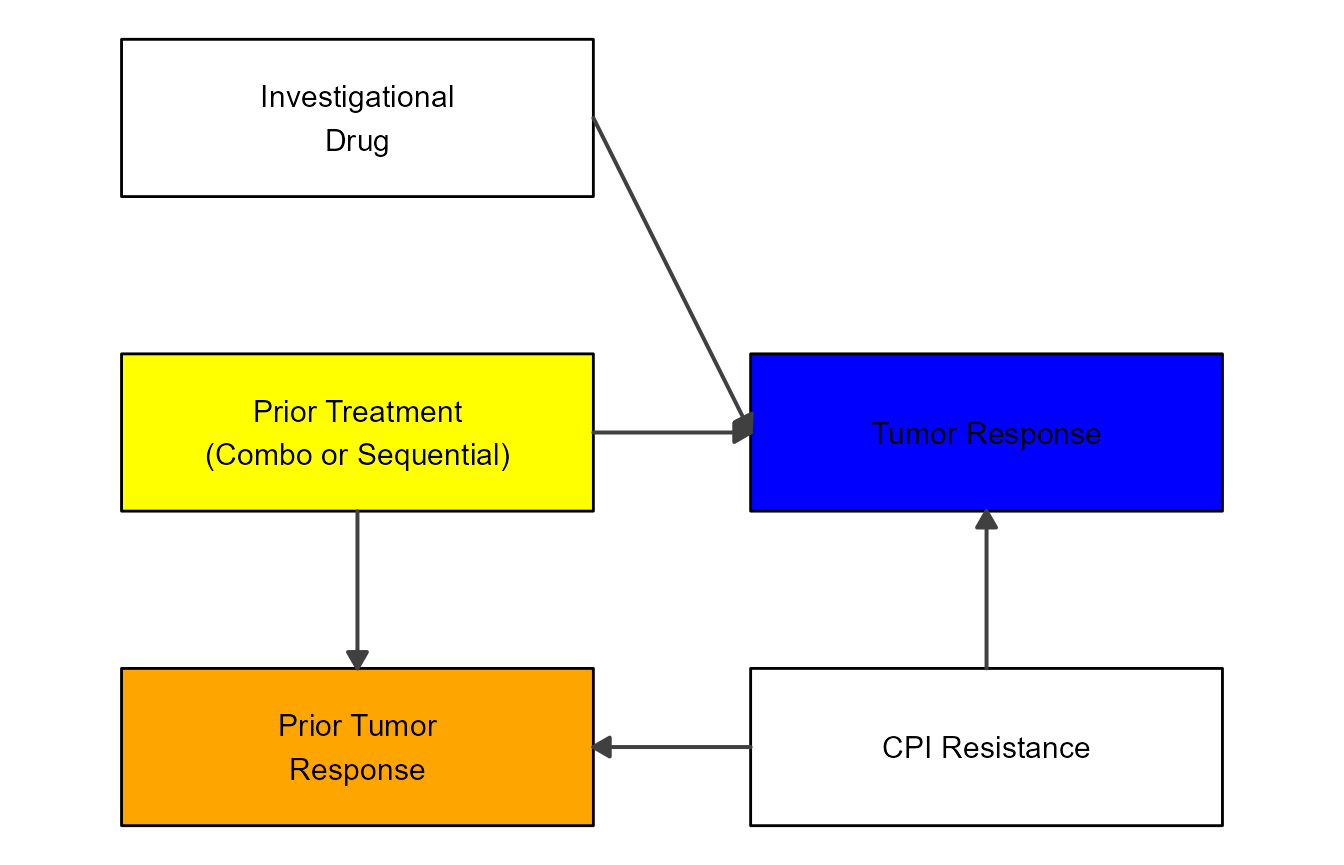
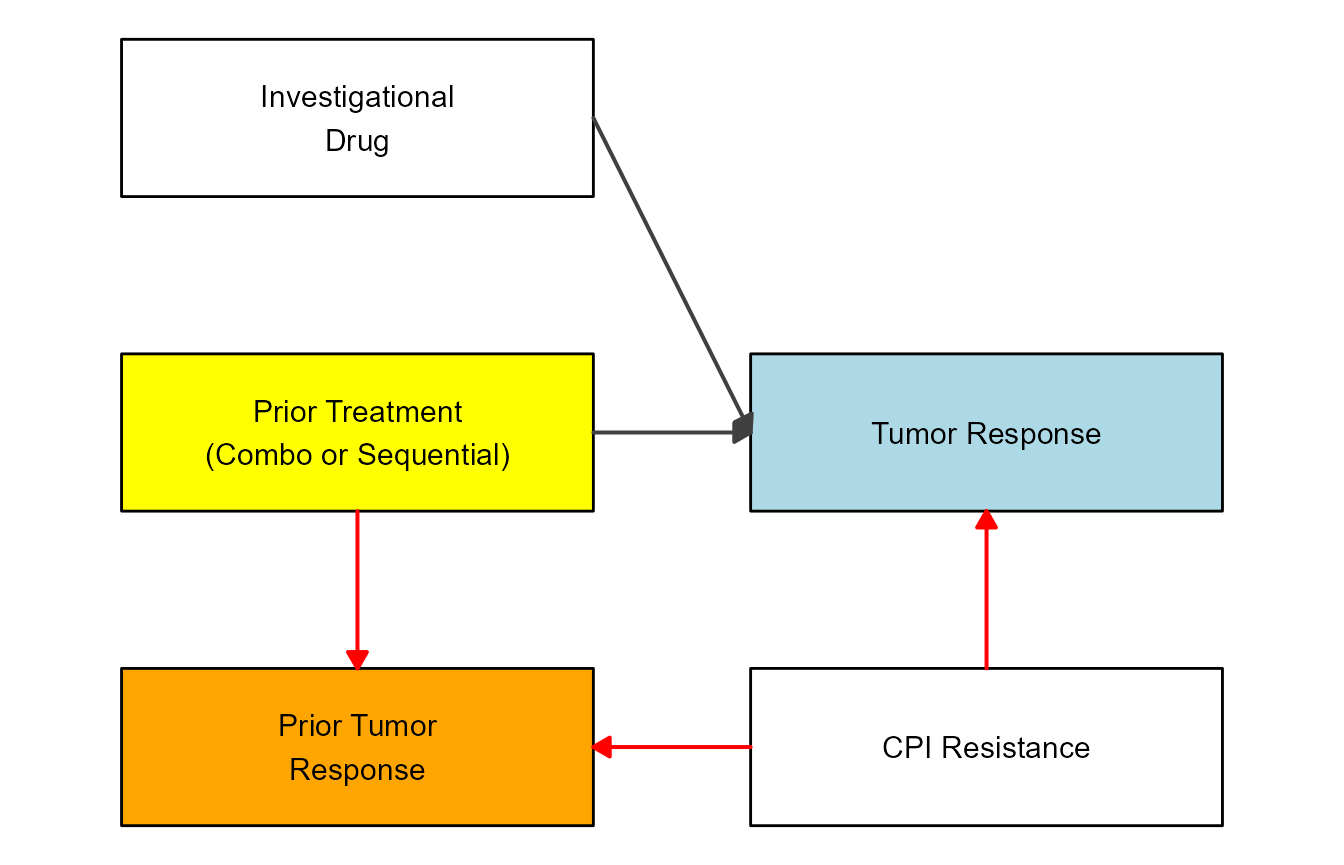
few more edits

Changed region(s): [[0.5625, 0.4058, 0.9062, 0.7491], [0.25, 0.5931, 0.2812, 0.7803], [0.4375, 0.8428, 0.5625, 0.874]]

diff --git a/docs/articles/E_non_model_diagrams.html b/docs/articles/E_non_model_diagrams.html
@@ -271,7 +271,7 @@ Next, we prepare the diagram, then plot it.</p>
                                 <span class="st">"PT"</span>, <span class="st">"TR"</span>,
                                <span class="st">"PTR"</span>, <span class="st">"CPI"</span><span class="op">)</span>,
                                ncol <span class="op">=</span> <span class="fl">2</span>, byrow <span class="op">=</span> <span class="cn">TRUE</span><span class="op">)</span>  
-<span class="va">varcolors</span> <span class="op">=</span> <span class="fu"><a href="https://rdrr.io/r/base/c.html" class="external-link">c</a></span><span class="op">(</span><span class="st">"ID"</span> <span class="op">=</span> <span class="st">"white"</span>,<span class="st">"PT"</span><span class="op">=</span><span class="st">"yellow"</span>,<span class="st">"TR"</span><span class="op">=</span><span class="st">"blue"</span>,<span class="st">"PTR"</span><span class="op">=</span><span class="st">"orange"</span>,<span class="st">"CPI"</span><span class="op">=</span><span class="st">"white"</span><span class="op">)</span>
+<span class="va">varcolors</span> <span class="op">=</span> <span class="fu"><a href="https://rdrr.io/r/base/c.html" class="external-link">c</a></span><span class="op">(</span><span class="st">"ID"</span> <span class="op">=</span> <span class="st">"white"</span>,<span class="st">"PT"</span><span class="op">=</span><span class="st">"yellow"</span>,<span class="st">"TR"</span><span class="op">=</span><span class="st">"lightblue"</span>,<span class="st">"PTR"</span><span class="op">=</span><span class="st">"orange"</span>,<span class="st">"CPI"</span><span class="op">=</span><span class="st">"white"</span><span class="op">)</span>
   
 <span class="va">flows</span> <span class="op">=</span> <span class="fu"><a href="https://rdrr.io/r/base/list.html" class="external-link">list</a></span><span class="op">(</span> ID_flows <span class="op">=</span> <span class="fu"><a href="https://rdrr.io/r/base/c.html" class="external-link">c</a></span><span class="op">(</span><span class="st">"-k1*ID"</span><span class="op">)</span>, 
                            PT_flows <span class="op">=</span> <span class="fu"><a href="https://rdrr.io/r/base/c.html" class="external-link">c</a></span><span class="op">(</span><span class="st">"-k2*TR"</span>,<span class="st">"-k3*PT"</span><span class="op">)</span>,
@@ -293,6 +293,7 @@ Next, we prepare the diagram, then plot it.</p>
                         var_label_text <span class="op">=</span> <span class="va">varnames</span>,
                         var_label_color <span class="op">=</span> <span class="fu"><a href="https://rdrr.io/r/base/c.html" class="external-link">c</a></span><span class="op">(</span>all <span class="op">=</span> <span class="st">"black"</span><span class="op">)</span>,
                         flow_show_label <span class="op">=</span> <span class="fu"><a href="https://rdrr.io/r/base/c.html" class="external-link">c</a></span><span class="op">(</span>all <span class="op">=</span> <span class="cn">FALSE</span><span class="op">)</span>,
+                        flow_line_color <span class="op">=</span> <span class="fu"><a href="https://rdrr.io/r/base/c.html" class="external-link">c</a></span><span class="op">(</span><span class="st">"m_k4CPI"</span> <span class="op">=</span> <span class="st">"red"</span>,<span class="st">"m_k5CPI"</span> <span class="op">=</span> <span class="st">"red"</span>, <span class="st">"m_k3PT"</span> <span class="op">=</span> <span class="st">"red"</span><span class="op">)</span>,
                         var_label_size <span class="op">=</span> <span class="fu"><a href="https://rdrr.io/r/base/c.html" class="external-link">c</a></span><span class="op">(</span>all <span class="op">=</span> <span class="fl">4</span><span class="op">)</span><span class="op">)</span>
 <span class="va">dag_list2</span> <span class="op">&lt;-</span> <span class="fu"><a href="../reference/update_diagram.html">update_diagram</a></span><span class="op">(</span><span class="va">dag_list</span>,<span class="va">diagram_settings</span><span class="op">)</span>
 <span class="co">#create and plot diagram</span>
@@ -303,7 +304,7 @@ Next, we prepare the diagram, then plot it.</p>
 <div class="section level2">
 <h2 id="example-4">Example 4<a class="anchor" aria-label="anchor" href="#example-4"></a>
 </h2>
-<p>TO COME. WANT TO SHOW SOME COMPLEX ONE WITH FEEDBACK LOOPS. IDEAS? MAYBE A (SIMPLE) FOOD WEB FROM ECOLOGY?</p>
+<p>If you want to see another example that showcases Goldilocks eating porridge (among other things), check out a short post on my (Andreas Handel’s) site <a href="https://www.andreashandel.com/posts/flowdiagramr-r-package/" class="external-link">here</a>. That example was inspired by <a href="https://nrennie.rbind.io/blog/2022-06-06-creating-flowcharts-with-ggplot2/" class="external-link">this blog post</a>.</p>
 </div>
   </div>
 

diff --git a/docs/articles/G_additional_topics.html b/docs/articles/G_additional_topics.html
@@ -149,7 +149,7 @@
 <p>Next, we convert the object.</p>
 <div class="sourceCode" id="cb2"><pre class="downlit sourceCode r">
 <code class="sourceCode R"><span class="va">mymodel</span> <span class="op">&lt;-</span> <span class="fu"><a href="../reference/convert_from_modelbuilder.html">convert_from_modelbuilder</a></span><span class="op">(</span><span class="va">mbmodel</span><span class="op">)</span></code></pre></div>
-<p>If you print the content, you can see it has two lists, the required <code>model_list</code> and the optional <code>model_settings</code>. The latter contains the variable names. You can use either or both in your call to <code>prepare_diagram</code>.</p>
+<p>If you print the content, you can see it has the required <code>model_list</code> with the <code>variables</code> and <code>flows</code> objects. You can now use this <code>model_list</code> object when you call <code><a href="../reference/prepare_diagram.html">prepare_diagram()</a></code>.</p>
 <div class="sourceCode" id="cb3"><pre class="downlit sourceCode r">
 <code class="sourceCode R"><span class="fu"><a href="https://rdrr.io/r/base/print.html" class="external-link">print</a></span><span class="op">(</span><span class="va">mymodel</span><span class="op">)</span>
 <span class="co">#&gt; $variables</span>
@@ -249,7 +249,7 @@
 <div class="section level3">
 <h3 id="set-margins-in-ggplot2">Set margins in ggplot2<a class="anchor" aria-label="anchor" href="#set-margins-in-ggplot2"></a>
 </h3>
-<p>One approach is to play with the margins of the gpplot object returend from <code>make_diagram</code> until things look ok. Here is an example:</p>
+<p>One approach is to play with the margins of the gpplot object returned from <code>make_diagram</code> until things look ok. Here is an example:</p>
 <div class="sourceCode" id="cb11"><pre class="downlit sourceCode r">
 <code class="sourceCode R"><span class="co">#shrink top and bottom margins</span>
 <span class="va">diag_new</span> <span class="op">&lt;-</span> <span class="va">sir_diagram</span> <span class="op">+</span> <span class="fu">ggplot2</span><span class="fu">::</span><span class="fu"><a href="https://ggplot2.tidyverse.org/reference/theme.html" class="external-link">theme</a></span><span class="op">(</span>plot.margin <span class="op">=</span> <span class="fu">ggplot2</span><span class="fu">::</span><span class="fu"><a href="https://rdrr.io/r/grid/unit.html" class="external-link">unit</a></span><span class="op">(</span><span class="fu"><a href="https://rdrr.io/r/base/c.html" class="external-link">c</a></span><span class="op">(</span><span class="op">-</span><span class="fl">7</span>,<span class="fl">0</span>,<span class="op">-</span><span class="fl">7</span>,<span class="fl">0</span><span class="op">)</span>, <span class="st">"in"</span><span class="op">)</span><span class="op">)</span></code></pre></div>
@@ -276,7 +276,7 @@
 </div>
 </div>
 <div class="section level2">
-<h2 id="using-flowdiagramr-helper-functions">Using **flowdiagramr` helper functions<a class="anchor" aria-label="anchor" href="#using-flowdiagramr-helper-functions"></a>
+<h2 id="using-flowdiagramr-helper-functions">Using <strong>flowdiagramr`</strong> helper functions<a class="anchor" aria-label="anchor" href="#using-flowdiagramr-helper-functions"></a>
 </h2>
 <p>By now, you are familiar with the main functions of **flowdiagramr<code>, namely</code>prepare_diagram()<code>,</code>update_diagram()<code>,</code>make_diagram()<code>and</code>write_diagram()`. The package contains additional helper functions. Those are generally not very useful by themselves and do work behind the scenes. However, a few might be occasionally useful, therefore we describe them briefly.</p>
 <ul>

diff --git a/docs/articles/F_additional_examples.html b/docs/articles/F_additional_examples.html
@@ -232,7 +232,7 @@
 <div class="section level2">
 <h2 id="example-3">Example 3<a class="anchor" aria-label="anchor" href="#example-3"></a>
 </h2>
-<p>MORE EXAMPLES TO COME</p>
+<p>More examples to come. If you have a nice one that we could include, we’d love to hear about it!</p>
 </div>
   </div>
 

diff --git a/auxiliary/Thoughts and ToDo.md b/auxiliary/Thoughts and ToDo.md
@@ -1,5 +1,5 @@
 ****************************
-Things to do at some later point (maybe)
+General notes for things to do at some later point
 ****************************
 
 * Add more tests to get code coverage close to 100% 
@@ -7,8 +7,6 @@ Things to do at some later point (maybe)
 * Move relevant flowtester.R code snippets to test functions, delete rest
 
 * It seems that the default placing of flow labels is just above the horizontal arrow for single-row flows, but overlaps with arrow on multi-row diagrams (see e.g. example 6 in B and the same model, example 4 in C). Maybe shifting default placement of labels up a bit? Similarly, maybe default placement for external flows could be placed at tip of arrow to minimize overlap, see e.g., Ex 2b and 3 and 4 in B. 
-
-* Maybe, since you need to do various checks for those inputs, put all input checks in a separate error check function (e.g. check_update_inputs() ) that is called at the beginning of update_diagram? **DONE. All checks still in the update_diagram function. They don't take up much space, but we can discuss best placement.**
 
 * Not a focus now, but worth keeping in the back: Any tweaks the automatic/default placement of things that improve the default look are good. E.g. getting closer to the final figure in vignette C with reduced manual intervention.
 
@@ -24,6 +22,7 @@ implementation.
 
 ****************************
 2022-06-11 Andreas notes
+****************************
 
 * Went through old stuff, processed/cleaned up.
 
@@ -31,15 +30,23 @@ implementation.
 
 * The weird thing when having double ** happened in the goldilocks example:
 P_flows = c("k1*GL","-k2*P","-k3*P","-k4**P"), #AH: THIS LEADS TO A WEIRD PLOT
-
 Note that this example got removed from vignette, I turned it into a blog post, see here:
 https://www.andreashandel.com/posts/flowdiagramr-r-package/
 (Feedback on blog post welcome)
 
-* I added a quick description of some helper functions to vignette G. See if there are any others worth mentioning. 
-
-* Related to that, can we rename check_dataframes to check_diagram_list?
-
 * Can you check that all functions/files in the R folder are currently still used. If not, move to auxiliary/oldcode
 
+* Vignette F the last example default layout doesn't look good. Any more simple tweaks you can think of one could apply to layout logical to make defaults look better? Only things that you can think of without spending an inordinate amount of time though.
+
+* I added a quick description of some helper functions to vignette G. See if there are any others worth mentioning. 
+* Related to that, can we rename check_dataframes to check_diagram_list?
+* Also related to that, since we are telling users about the various check_ functions, maybe we should have a separate function for check_diagram_settings() (the checks done at the beginning of update_diagram) after all? 
+This is from previous discussion: Maybe, since you need to do various checks for those inputs, put all input checks in a separate error check function (e.g. check_update_inputs() ) that is called at the beginning of update_diagram? **DONE. All checks still in the update_diagram function. They don't take up much space, but we can discuss best placement.**
+This way, user can directly access functions that check each of the main inputs, model_list, model_settings, diagram_list, diagram_settings
+
 * I saw you had a couple functions not exported because they came from stackoverflow. I'm leaning toward still making the exported/public and just in header acknowledging the origin of the code. Thoughts on that?
+
+* Vignette G, set margins using ggplot plot.margin does for some reason not work. Not sure why. If you happen to know right away, fix/adjust. Otherwise I'll revisit and try to figure out what's going on.
+
+
+
